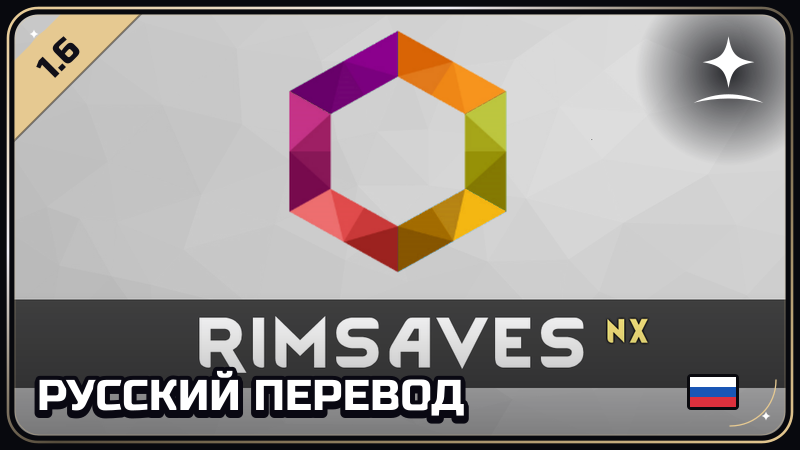
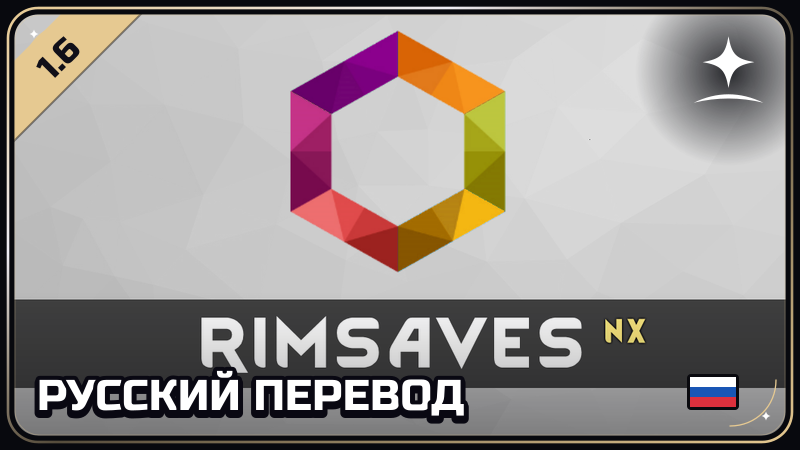
Preserve cover proportions and remove cosmetic changelogs

diff --git a/catalog/translations.md b/catalog/translations.md
@@ -12,7 +12,7 @@
 
 [![RimSaves — русский перевод](https://raw.githubusercontent.com/chupakobra6/star-sky-assets/main/assets/rimsaves-translation.png)](https://steamcommunity.com/sharedfiles/filedetails/?id=3803300028)
 
-RimWorld 1.6 · Версия 1.0.3
+RimWorld 1.6 · Версия 1.0.2
 
 [Мастерская](https://steamcommunity.com/sharedfiles/filedetails/?id=3803300028) · [Исходники и руководство](../mods/RU-1713367505/README.md) · [История изменений](../mods/RU-1713367505/CHANGELOG.md) · [Лицензия](../mods/RU-1713367505/LICENSE) · [Источники и уведомления](../mods/RU-1713367505/NOTICES.md)
 
@@ -22,7 +22,7 @@ RimWorld 1.6 · Версия 1.0.3
 
 [![Visible Raid Points — русский перевод](https://raw.githubusercontent.com/chupakobra6/star-sky-assets/main/assets/visible-raid-points-translation.png)](https://steamcommunity.com/sharedfiles/filedetails/?id=3803300103)
 
-RimWorld 1.6 · Версия 1.0.3
+RimWorld 1.6 · Версия 1.0.2
 
 [Мастерская](https://steamcommunity.com/sharedfiles/filedetails/?id=3803300103) · [Исходники и руководство](../mods/RU-2562730174/README.md) · [История изменений](../mods/RU-2562730174/CHANGELOG.md) · [Лицензия](../mods/RU-2562730174/LICENSE) · [Источники и уведомления](../mods/RU-2562730174/NOTICES.md)
 
@@ -32,7 +32,7 @@ RimWorld 1.6 · Версия 1.0.3
 
 [![SimpleCameraSetting — русский перевод](https://raw.githubusercontent.com/chupakobra6/star-sky-assets/main/assets/simple-camera-setting-translation.png)](https://steamcommunity.com/sharedfiles/filedetails/?id=3803300163)
 
-RimWorld 1.6 · Версия 1.0.3
+RimWorld 1.6 · Версия 1.0.2
 
 [Мастерская](https://steamcommunity.com/sharedfiles/filedetails/?id=3803300163) · [Исходники и руководство](../mods/RU-3232415388/README.md) · [История изменений](../mods/RU-3232415388/CHANGELOG.md) · [Лицензия](../mods/RU-3232415388/LICENSE) · [Источники и уведомления](../mods/RU-3232415388/NOTICES.md)
 
@@ -42,7 +42,7 @@ RimWorld 1.6 · Версия 1.0.3
 
 [![QualityBuilder Unofficial 1.6 — русский перевод](https://raw.githubusercontent.com/chupakobra6/star-sky-assets/main/assets/qualitybuilder-translation.png)](https://steamcommunity.com/sharedfiles/filedetails/?id=3803300243)
 
-RimWorld 1.6 · Версия 1.0.3
+RimWorld 1.6 · Версия 1.0.2
 
 [Мастерская](https://steamcommunity.com/sharedfiles/filedetails/?id=3803300243) · [Исходники и руководство](../mods/RU-3512466087/README.md) · [История изменений](../mods/RU-3512466087/CHANGELOG.md) · [Лицензия](../mods/RU-3512466087/LICENSE) · [Источники и уведомления](../mods/RU-3512466087/NOTICES.md)
 
@@ -52,7 +52,7 @@ RimWorld 1.6 · Версия 1.0.3
 
 [![Goodwill Preview — русский перевод](https://raw.githubusercontent.com/chupakobra6/star-sky-assets/main/assets/goodwill-preview-translation.png)](https://steamcommunity.com/sharedfiles/filedetails/?id=3803300296)
 
-RimWorld 1.6 · Версия 1.0.3
+RimWorld 1.6 · Версия 1.0.2
 
 [Мастерская](https://steamcommunity.com/sharedfiles/filedetails/?id=3803300296) · [Исходники и руководство](../mods/RU-3695225114/README.md) · [История изменений](../mods/RU-3695225114/CHANGELOG.md) · [Лицензия](../mods/RU-3695225114/LICENSE) · [Источники и уведомления](../mods/RU-3695225114/NOTICES.md)
 
@@ -62,7 +62,7 @@ RimWorld 1.6 · Версия 1.0.3
 
 [![Go Explore! — русский перевод](https://raw.githubusercontent.com/chupakobra6/star-sky-assets/main/assets/go-explore-translation.png)](https://steamcommunity.com/sharedfiles/filedetails/?id=3803465492)
 
-RimWorld 1.6 · Версия 1.0.1
+RimWorld 1.6 · Версия 1.0.0
 
 [Мастерская](https://steamcommunity.com/sharedfiles/filedetails/?id=3803465492) · [Исходники и руководство](../mods/RU-1814100216/README.md) · [История изменений](../mods/RU-1814100216/CHANGELOG.md) · [Лицензия](../mods/RU-1814100216/LICENSE) · [Источники и уведомления](../mods/RU-1814100216/NOTICES.md)
 
@@ -72,7 +72,7 @@ RimWorld 1.6 · Версия 1.0.1
 
 [![Adaptive Storage Framework — русский перевод](https://raw.githubusercontent.com/chupakobra6/star-sky-assets/main/assets/adaptive-storage-framework-translation.png)](https://steamcommunity.com/sharedfiles/filedetails/?id=3803465496)
 
-RimWorld 1.6 · Версия 1.0.1
+RimWorld 1.6 · Версия 1.0.0
 
 [Мастерская](https://steamcommunity.com/sharedfiles/filedetails/?id=3803465496) · [Исходники и руководство](../mods/RU-3033901359/README.md) · [История изменений](../mods/RU-3033901359/CHANGELOG.md) · [Лицензия](../mods/RU-3033901359/LICENSE) · [Источники и уведомления](../mods/RU-3033901359/NOTICES.md)
 
@@ -82,7 +82,7 @@ RimWorld 1.6 · Версия 1.0.1
 
 [![Hunt for Me — русский перевод](https://raw.githubusercontent.com/chupakobra6/star-sky-assets/main/assets/hunt-for-me-translation.png)](https://steamcommunity.com/sharedfiles/filedetails/?id=3803465500)
 
-RimWorld 1.6 · Версия 1.0.1
+RimWorld 1.6 · Версия 1.0.0
 
 [Мастерская](https://steamcommunity.com/sharedfiles/filedetails/?id=3803465500) · [Исходники и руководство](../mods/RU-1593245720/README.md) · [История изменений](../mods/RU-1593245720/CHANGELOG.md) · [Лицензия](../mods/RU-1593245720/LICENSE) · [Источники и уведомления](../mods/RU-1593245720/NOTICES.md)
 
@@ -92,7 +92,7 @@ RimWorld 1.6 · Версия 1.0.1
 
 [![Useful Marks — русский перевод](https://raw.githubusercontent.com/chupakobra6/star-sky-assets/main/assets/useful-marks-translation.png)](https://steamcommunity.com/sharedfiles/filedetails/?id=3803465503)
 
-RimWorld 1.6 · Версия 1.0.1
+RimWorld 1.6 · Версия 1.0.0
 
 [Мастерская](https://steamcommunity.com/sharedfiles/filedetails/?id=3803465503) · [Исходники и руководство](../mods/RU-3506573327/README.md) · [История изменений](../mods/RU-3506573327/CHANGELOG.md) · [Лицензия](../mods/RU-3506573327/LICENSE) · [Источники и уведомления](../mods/RU-3506573327/NOTICES.md)
 
@@ -102,6 +102,6 @@ RimWorld 1.6 · Версия 1.0.1
 
 [![Nice Bill Tab — русский перевод](https://raw.githubusercontent.com/chupakobra6/star-sky-assets/main/assets/nice-bill-tab-translation.png)](https://steamcommunity.com/sharedfiles/filedetails/?id=3803465507)
 
-RimWorld 1.6 · Версия 1.0.1
+RimWorld 1.6 · Версия 1.0.0
 
 [Мастерская](https://steamcommunity.com/sharedfiles/filedetails/?id=3803465507) · [Исходники и руководство](../mods/RU-3520130671/README.md) · [История изменений](../mods/RU-3520130671/CHANGELOG.md) · [Лицензия](../mods/RU-3520130671/LICENSE) · [Источники и уведомления](../mods/RU-3520130671/NOTICES.md)

diff --git a/mods/RU-1713367505/CHANGELOG.md b/mods/RU-1713367505/CHANGELOG.md
@@ -1,10 +1,5 @@
 # История изменений
 
-## 1.0.3
-
-- Обновлена обложка: изображение оригинального мода подогнано под рамку для равномерного заполнения без лишних тёмных полей.
-- Игровые тексты, код и поведение мода не изменены.
-
 ## 1.0.2
 
 - Руководство, история изменений и пояснения к источникам и лицензиям переведены на русский.

diff --git a/mods/RU-2562730174/CHANGELOG.md b/mods/RU-2562730174/CHANGELOG.md
@@ -1,10 +1,5 @@
 # История изменений
 
-## 1.0.3
-
-- Обновлена обложка: изображение оригинального мода подогнано под рамку для равномерного заполнения без лишних тёмных полей.
-- Игровые тексты, код и поведение мода не изменены.
-
 ## 1.0.2
 
 - Руководство, история изменений и пояснения к источникам и лицензиям переведены на русский.

diff --git a/mods/RU-3232415388/CHANGELOG.md b/mods/RU-3232415388/CHANGELOG.md
@@ -1,10 +1,5 @@
 # История изменений
 
-## 1.0.3
-
-- Обновлена обложка: изображение оригинального мода подогнано под рамку для равномерного заполнения без лишних тёмных полей.
-- Игровые тексты, код и поведение мода не изменены.
-
 ## 1.0.2
 
 - Руководство, история изменений и пояснения к источникам и лицензиям переведены на русский.

diff --git a/mods/RU-3512466087/CHANGELOG.md b/mods/RU-3512466087/CHANGELOG.md
@@ -1,10 +1,5 @@
 # История изменений
 
-## 1.0.3
-
-- Обновлена обложка: изображение оригинального мода подогнано под рамку для равномерного заполнения без лишних тёмных полей.
-- Игровые тексты, код и поведение мода не изменены.
-
 ## 1.0.2
 
 - Руководство, история изменений и пояснения к источникам и лицензиям переведены на русский.

diff --git a/mods/RU-3695225114/CHANGELOG.md b/mods/RU-3695225114/CHANGELOG.md
@@ -1,10 +1,5 @@
 # История изменений
 
-## 1.0.3
-
-- Обновлена обложка: изображение оригинального мода подогнано под рамку для равномерного заполнения без лишних тёмных полей.
-- Игровые тексты, код и поведение мода не изменены.
-
 ## 1.0.2
 
 - Руководство, история изменений и пояснения к источникам и лицензиям переведены на русский.

diff --git a/mods/RU-3520130671/CHANGELOG.md b/mods/RU-3520130671/CHANGELOG.md
@@ -1,10 +1,5 @@
 # История изменений
 
-## 1.0.1
-
-- Обновлена обложка: изображение оригинального мода подогнано под рамку для равномерного заполнения без лишних тёмных полей.
-- Игровые тексты, код и поведение мода не изменены.
-
 ## 1.0.0
 
 Первый выпуск отдельного русского перевода Nice Bill Tab для RimWorld 1.6.

diff --git a/mods/RU-3506573327/CHANGELOG.md b/mods/RU-3506573327/CHANGELOG.md
@@ -1,10 +1,5 @@
 # История изменений
 
-## 1.0.1
-
-- Обновлена обложка: изображение оригинального мода подогнано под рамку для равномерного заполнения без лишних тёмных полей.
-- Игровые тексты, код и поведение мода не изменены.
-
 ## 1.0.0
 
 Первый выпуск отдельного русского перевода Useful Marks для RimWorld 1.6.

diff --git a/mods/RU-1593245720/CHANGELOG.md b/mods/RU-1593245720/CHANGELOG.md
@@ -1,10 +1,5 @@
 # История изменений
 
-## 1.0.1
-
-- Обновлена обложка: изображение оригинального мода подогнано под рамку для равномерного заполнения без лишних тёмных полей.
-- Игровые тексты, код и поведение мода не изменены.
-
 ## 1.0.0
 
 - Первый отдельный выпуск русского перевода для RimWorld 1.6.

diff --git a/mods/RU-1814100216/CHANGELOG.md b/mods/RU-1814100216/CHANGELOG.md
@@ -1,10 +1,5 @@
 # История изменений
 
-## 1.0.1
-
-- Обновлена обложка: изображение оригинального мода подогнано под рамку для равномерного заполнения без лишних тёмных полей.
-- Игровые тексты, код и поведение мода не изменены.
-
 ## 1.0.0
 
 - Первый отдельный выпуск русского перевода для RimWorld 1.6.

diff --git a/mods/RU-3033901359/CHANGELOG.md b/mods/RU-3033901359/CHANGELOG.md
@@ -1,10 +1,5 @@
 # История изменений
 
-## 1.0.1
-
-- Обновлена обложка: изображение оригинального мода подогнано под рамку для равномерного заполнения без лишних тёмных полей.
-- Игровые тексты, код и поведение мода не изменены.
-
 ## 1.0.0
 
 - Первый отдельный выпуск русского перевода для RimWorld 1.6.
